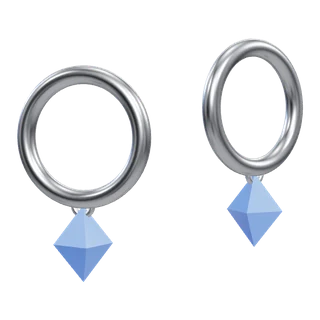
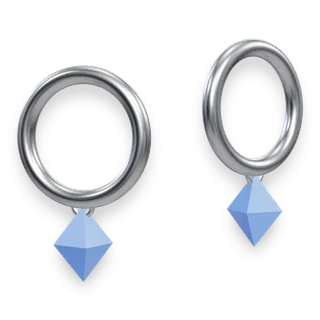
Catálogo: carrusel 3D de categorías
- Los íconos 3D giran en círculo sobre una plataforma holográfica, con profundidad
- Giro automático lento, se arrastra con el dedo o el mouse (con inercia),
  flechas y teclado; tocar uno de atrás lo trae al frente y el del frente abre la categoría
- Sombras integradas en las imágenes de los íconos para que gire fluido
- Se anima solo cuando está en pantalla

Claude-Session: https://claude.ai/code/session_01LNhxdqNjLCEiYwJFKQMk8u

diff --git a/index.html b/index.html
@@ -41,6 +41,33 @@ body{background:var(--ink);color:var(--silver);font-family:var(--body);font-size
 body::before{content:"";position:fixed;inset:0 0 auto;height:env(safe-area-inset-top,0px);z-index:10;background:var(--ink)}
 .wrap{max-width:1180px;margin:0 auto;padding-left:max(16px,env(safe-area-inset-left,0px));padding-right:max(16px,env(safe-area-inset-right,0px))}
 
+/* ===== Carrusel 3D de categorías ===== */
+.car{position:relative;height:310px;perspective:900px;perspective-origin:50% 30%;touch-action:pan-y;cursor:grab;user-select:none;-webkit-user-select:none}
+.car.drag{cursor:grabbing}
+.car-ring{position:absolute;inset:0}
+.car-item{position:absolute;left:50%;top:36%;width:128px;margin:-70px 0 0 -64px;will-change:transform,opacity}
+.car-item .cat-tile{width:100%}
+.car-item .cat-3d{width:100%;max-width:none}
+.car-item.front .cat-glow{opacity:1;transform:scale(1.35)}
+.car-item .cat-name{opacity:0;transition:opacity .3s}
+.car-item.front .cat-name{opacity:1;color:var(--silver)}
+.car-floor{position:absolute;left:50%;top:52%;width:min(860px,94%);aspect-ratio:3.2;transform:translate(-50%,-30%);border-radius:50%;pointer-events:none;
+  background:radial-gradient(ellipse at center,rgba(47,107,255,.32),rgba(47,107,255,.08) 45%,transparent 70%)}
+.car-floor i{position:absolute;inset:6% 4%;border-radius:50%;border:1px solid rgba(156,192,255,.45);box-shadow:0 0 18px rgba(47,107,255,.45),inset 0 0 18px rgba(47,107,255,.35)}
+.car-floor i+i{inset:22% 20%;border-style:dashed;border-color:rgba(156,192,255,.35);animation:floorspin 16s linear infinite}
+@keyframes floorspin{to{transform:rotate(360deg)}}
+.car-ui{display:flex;align-items:center;justify-content:center;gap:18px;margin-top:-6px}
+.car-btn{width:42px;height:42px;border-radius:999px;border:1px solid var(--line);background:color-mix(in srgb,var(--panel) 80%,transparent);color:var(--silver);font-size:22px;line-height:1;cursor:pointer;transition:border-color .25s,box-shadow .25s}
+.car-btn:hover{border-color:var(--ice);box-shadow:0 0 16px rgba(47,107,255,.6)}
+.car-cap{margin:0;min-width:170px;text-align:center}
+.car-cap b{display:block;font:800 20px var(--display);letter-spacing:-.01em}
+.car-cap span{font-size:13px;color:var(--muted)}
+@media (max-width:760px){
+  .car{height:270px;perspective:520px}
+  .car-item{width:96px;margin:-56px 0 0 -48px}
+  .car-cap b{font-size:17px}
+}
+@media (prefers-reduced-motion:reduce){.car-floor i+i{animation:none}}
 /* ===== Neofuturismo ===== */
 @property --ang{syntax:"<angle>";initial-value:0deg;inherits:false}
 /* auroras de fondo que se mueven lento */
@@ -132,7 +159,7 @@ section.seen .sec-head::after{transform:scaleX(1)}
 .cat-3d{position:relative;width:86%;max-width:104px;aspect-ratio:1;perspective:500px}
 .cat-glow{position:absolute;inset:20%;border-radius:50%;background:radial-gradient(circle,rgba(47,107,255,.5),transparent 70%);filter:blur(12px);opacity:.5;transition:opacity .35s ease,transform .35s ease}
 .cat-float{position:absolute;inset:0;animation:cat-float 4.2s ease-in-out infinite;animation-delay:calc(var(--i)*-.42s)}
-.cat-3d img{width:100%;height:100%;object-fit:contain;display:block;filter:drop-shadow(0 12px 14px rgba(0,0,0,.55));
+.cat-3d img{width:100%;height:100%;object-fit:contain;display:block;
   transform:rotateX(var(--rx,0deg)) rotateY(var(--ry,0deg));transition:transform .35s cubic-bezier(.2,.8,.2,1)}
 .cat-tile:hover .cat-3d img{transform:rotateX(var(--rx,0deg)) rotateY(var(--ry,0deg)) scale(1.12)}
 .cat-tile:hover .cat-glow,.cat-tile[aria-current="true"] .cat-glow{opacity:1;transform:scale(1.25)}
@@ -341,7 +368,17 @@ button.ask{font-family:var(--body);cursor:pointer}
   <p class="tag">Relojes, anillos, billeteras, lentes y más. Elegí, armá tu pedido y mandalo por WhatsApp.</p>
 </section>
 
-<section class="wrap cats" aria-label="Elegí una categoría"><div class="cats-grid" id="cats"></div></section>
+<section class="wrap cats" aria-label="Elegí una categoría">
+  <div class="car" id="car">
+    <div class="car-floor" aria-hidden="true"><i></i><i></i></div>
+    <div class="car-ring" id="cats"></div>
+  </div>
+  <div class="car-ui">
+    <button type="button" class="car-btn" id="car-prev" aria-label="Categoría anterior">‹</button>
+    <p class="car-cap" id="car-cap" aria-live="polite"><b></b><span></span></p>
+    <button type="button" class="car-btn" id="car-next" aria-label="Categoría siguiente">›</button>
+  </div>
+</section>
 
 <nav class="catnav" id="catnav" aria-label="Filtrar por categoría"><div class="wrap filters" id="filters"></div></nav>
 
@@ -530,7 +567,7 @@ btn("todo","Todo").setAttribute("aria-pressed","true");
       t.style.setProperty("--ry",((e.clientX-r.left)/r.width-.5)*36+"deg");t.style.setProperty("--rx",(.5-(e.clientY-r.top)/r.height)*30+"deg")});
     t.addEventListener("pointerleave",()=>{t.style.removeProperty("--rx");t.style.removeProperty("--ry")});
     t.addEventListener("click",()=>{document.getElementById("f-"+c.id).click();requestAnimationFrame(()=>document.getElementById(c.id).scrollIntoView({behavior:smooth?"smooth":"auto",block:"start"}))});
-    box.append(t);
+    const item=document.createElement("div");item.className="car-item";item.append(t);box.append(item);
   });
 }
 CATS.forEach(c=>{
@@ -687,6 +724,59 @@ qv.addEventListener("click",e=>{if(e.target===qv)qv.close()});
   const bar=document.getElementById("progress");let ticking=false;
   const upd=()=>{const h=document.documentElement.scrollHeight-innerHeight;bar.style.transform=`scaleX(${h>0?scrollY/h:0})`;ticking=false};
   addEventListener("scroll",()=>{if(!ticking){ticking=true;requestAnimationFrame(upd)}},{passive:true});upd();
+}
+/* ---------- Carrusel 3D: gira solo, se arrastra con inercia y tiene flechas ---------- */
+{
+  const car=document.getElementById("car"),items=[...car.querySelectorAll(".car-item")],n=items.length,step=360/n;
+  const cap=document.getElementById("car-cap"),reduce=matchMedia("(prefers-reduced-motion: reduce)").matches;
+  const AUTO=reduce?0:.11;               // grados por cuadro (una vuelta cada ~55 s)
+  let angle=0,vel=AUTO,target=null,dragging=false,down=null,lastX=0,lastT=0,idleUntil=0,front=-1,run=true,raf=0;
+  const radius=()=>car.clientWidth<600?Math.min(150,car.clientWidth*.4):Math.min(380,car.clientWidth*.34);
+  function render(){
+    const R=radius();
+    let best=0,bestCos=-2;
+    items.forEach((el,i)=>{
+      const a=(i*step+angle)*Math.PI/180,c=Math.cos(a),x=Math.sin(a)*R,z=c*R,y=c*R*(car.clientWidth<600?.3:.16);
+      el.style.transform=`translate3d(${x.toFixed(1)}px,${y.toFixed(1)}px,${z.toFixed(1)}px)`;
+      el.style.opacity=(.18+.82*Math.pow((c+1)/2,1.4)).toFixed(3);
+      el.style.zIndex=Math.round(z+1000);
+      if(c>bestCos){bestCos=c;best=i}
+    });
+    if(best!==front){
+      items[front]?.classList.remove("front");items[best].classList.add("front");front=best;
+      const c=CATS[best];cap.querySelector("b").textContent=c.name;cap.querySelector("span").textContent=`${c.items.length} ${c.items.length===1?"producto":"productos"} · tocá para ver`;
+    }
+  }
+  function tick(){
+    if(!dragging){
+      if(target!==null){const d=target-angle;angle+=d*.12;if(Math.abs(d)<.05){angle=target;target=null}}
+      else{if(performance.now()>idleUntil)vel+=(AUTO-vel)*.02;else vel*=.95;angle+=vel}
+    }
+    render();
+    raf=run?requestAnimationFrame(tick):0;
+  }
+  const go=dir=>{const base=target??angle;target=Math.round(base/step)*step-dir*step;idleUntil=performance.now()+5000;vel=0};
+  document.getElementById("car-prev").onclick=()=>go(-1);
+  document.getElementById("car-next").onclick=()=>go(1);
+  car.addEventListener("keydown",e=>{if(e.key==="ArrowLeft"){go(-1);e.preventDefault()}if(e.key==="ArrowRight"){go(1);e.preventDefault()}});
+  // arrastrar (con inercia); si casi no se movió, es un toque normal sobre el ícono
+  car.addEventListener("pointerdown",e=>{down={x:e.clientX,id:e.pointerId};lastX=e.clientX;lastT=performance.now();target=null});
+  car.addEventListener("pointermove",e=>{
+    if(!down||e.pointerId!==down.id)return;
+    if(!dragging&&Math.abs(e.clientX-down.x)>6){dragging=true;car.classList.add("drag");car.setPointerCapture(e.pointerId)}
+    if(dragging){const now=performance.now(),dx=e.clientX-lastX;const k=car.clientWidth<600?.45:.28;angle+=dx*k;vel=dx*k/Math.max(1,(now-lastT)/16);lastX=e.clientX;lastT=now}
+  });
+  const up=e=>{if(!down)return;if(dragging){idleUntil=performance.now()+3500;car.classList.remove("drag")}setTimeout(()=>{dragging=false},0);down=null};
+  car.addEventListener("pointerup",up);car.addEventListener("pointercancel",up);
+  car.addEventListener("click",e=>{if(dragging){e.stopPropagation();e.preventDefault()}},true);
+  // tocar un ícono de atrás lo trae al frente; tocar el del frente abre la categoría
+  items.forEach((el,i)=>el.addEventListener("click",e=>{
+    if(i!==front){e.stopPropagation();target=-i*step+Math.round((angle+i*step)/360)*360;idleUntil=performance.now()+5000;vel=0}
+  },true));
+  // solo se anima cuando está en pantalla
+  new IntersectionObserver(([e])=>{run=e.isIntersecting;if(run&&!raf)raf=requestAnimationFrame(tick)}).observe(car);
+  document.addEventListener("visibilitychange",()=>{run=!document.hidden;if(run&&!raf)raf=requestAnimationFrame(tick)});
+  render();raf=requestAnimationFrame(tick);
 }
 </script>
 
